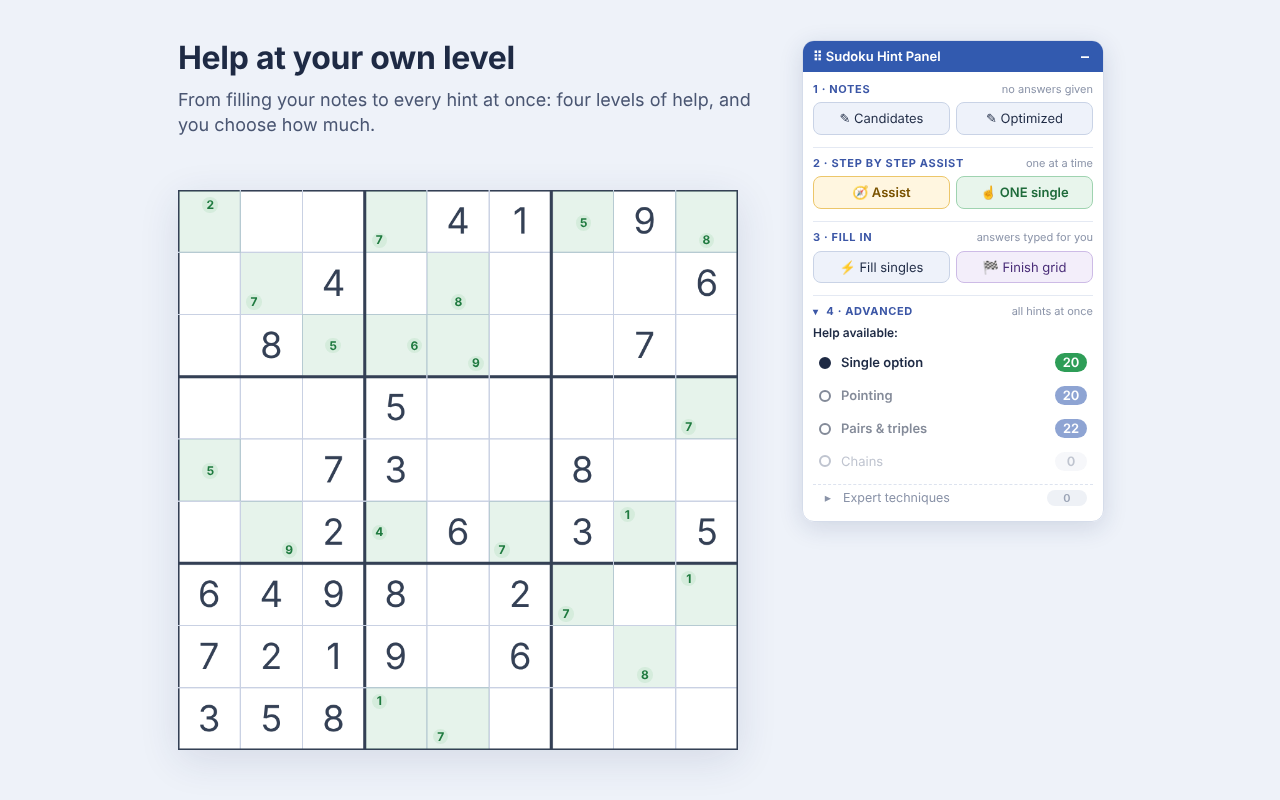
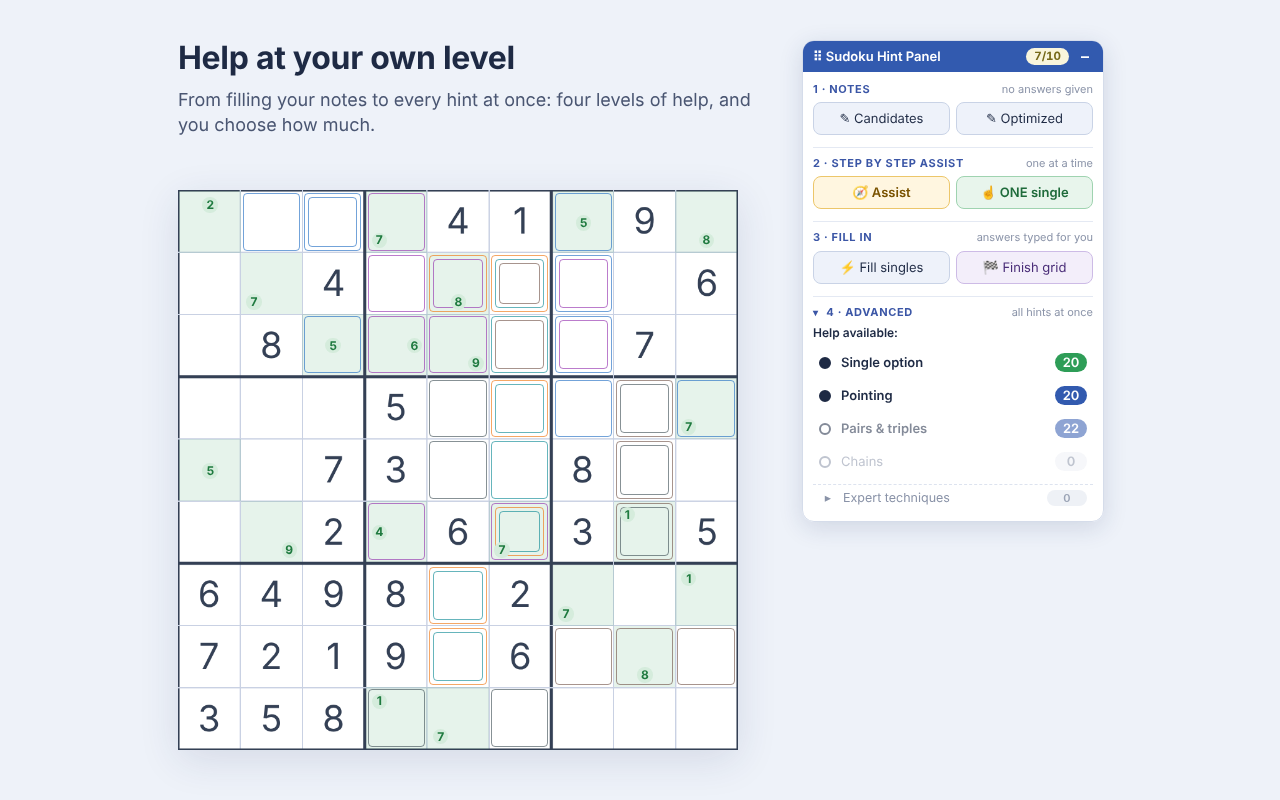
Store screenshots and marquee showing the difficulty badge; release checklist: screenshots are updated for every release
Claude-Session: https://claude.ai/code/session_01U1DuCeTJMyiTMPg3LWMkC1

diff --git a/docs/PUBLISHING.md b/docs/PUBLISHING.md
@@ -21,7 +21,8 @@ Done: https://github.com/r0main-f/sudoku-hint-panel
 - **Description:** paste the English description from `store/listing-en.md`. The summary comes from the manifest (`description`).
 - **Category:** Games (or Education).
 - **Language:** English. Then add **French** and paste `store/listing-fr.md`.
-- **Graphics:** store icon = `store/store-icon-128.png` (128×128, 96 px artwork with transparent padding); upload the five `store/screenshot-*.png` (1280×800) and `store/promo-tile-440x280.png` as the small promo tile, and `store/marquee-promo-1400x560.png` as the marquee (large) promo tile.
+- **Graphics:** (regenerate them for every release, so they always show the current panel — see `CLAUDE.md`)
+   store icon = `store/store-icon-128.png` (128×128, 96 px artwork with transparent padding); upload the five `store/screenshot-*.png` (1280×800) and `store/promo-tile-440x280.png` as the small promo tile, and `store/marquee-promo-1400x560.png` as the marquee (large) promo tile.
 - **Additional fields:** homepage URL = GitHub repository; support URL = the repository's Issues page.
 
 ## 5. Privacy tab

diff --git a/CLAUDE.md b/CLAUDE.md
@@ -1,0 +1,16 @@
+# Sudoku Hint Panel — notes for working on this repo
+
+## Every release (any version bump in `extension/manifest.json`)
+Bumping the version makes `.github/workflows/release.yml` create the GitHub
+release and submit the zip to the Chrome Web Store, so get these ready first:
+
+1. **Update the store screenshots and marquee** so they show the current panel:
+   `store/screenshot-1…5-*.png` (1280×800) and `store/marquee-promo-1400x560.png`.
+   Regenerate them from the current `extension/` code — never ship a release
+   with screenshots from an older version.
+2. Add the `## x.y.z` section to `CHANGELOG.md` (it becomes the release notes).
+3. Update `README.md` and `store/listing-en.md` / `listing-fr.md` if features changed.
+4. Copy the new zip, screenshots and an updated COPY-PASTE-SHEET.txt to the
+   owner's `~/Downloads/Sudoku-Hint-Panel-Store` folder, since the store listing
+   images are uploaded by hand.
+5. Only then bump the version — and only when the owner asks for the release.
